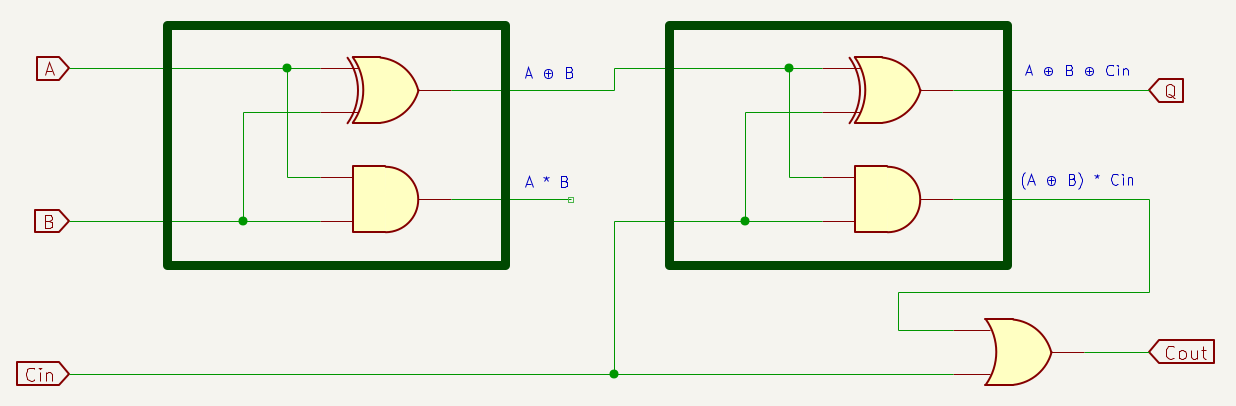
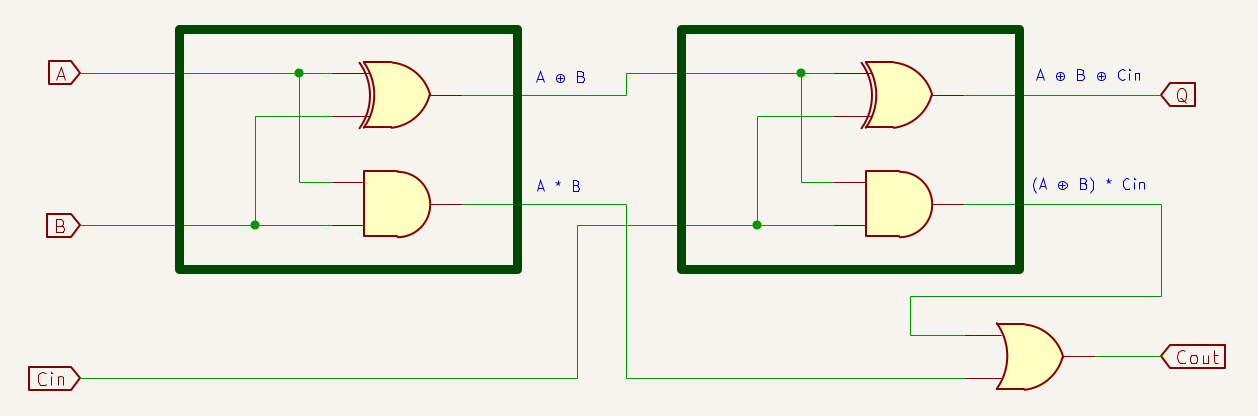
update

diff --git a/docs/_docs/97-bin-math.md b/docs/_docs/97-bin-math.md
@@ -572,7 +572,7 @@ Per finire, da quanto visto fino ad ora possiamo dedurre un'altra regola: la som
 
 Come si effettuano le addizioni? E le sottrazioni?
 
-L'Adder è quell'unità logica basilare che permette di eseguire somme e, opportunamente configurato, sottrazioni.
+Un Adder è un unità logica basilare che permette di eseguire somme e, opportunamente configurato, sottrazioni.
 
 ## Le somme con gli Adder
 
@@ -584,10 +584,10 @@ C                               1
 A           0+     0+     1+     1+
 B           0=     1=     0=     1=
           ----   ----   ----   ----
-Q           0      1      1      0 
+Q           0      1      1     10 
 ~~~
 
-Nella quarta ipotesi notiamo che il risultato della somma di due bit entrambi a 1 genera un riporto, cioè un Carry. Scrivendo la truth table, nella quale C<sub>OUT</sub> identifica il Carry generato dalla somma dei bit A e B, otteniamo:
+Nella quarta ipotesi notiamo che il risultato della somma di due bit entrambi a 1 genera un riporto, cioè un Carry. Scrivendo la truth table e considerando il Carry generato dalla somma dei bit A e B, otteniamo:
 
 | A | B | **Q** | C<sub>OUT</sub> |
 | - | - | -     | -               |
@@ -598,9 +598,11 @@ Nella quarta ipotesi notiamo che il risultato della somma di due bit entrambi a 
 
 Il risultato Q della somma dei due bit A e B si può ottenere con una porta logica XOR, mentre il Carry C<sub>OUT</sub> è chiaramente ottenibile con una porta AND. Ecco come si potrebbe costruire il circuito equivalente:
 
-![Adder](../../assets/math/half-adder.png){:width="50%"}
+![Half Adder](../../assets/math/half-adder.png){:width="50%"}
 
-Quando attivo, il Carry evidenzia una situazione di overflow, cioè di risultato dell'operazione che eccede la capacità di rappresentazione dei bit disponibili.
+*Half Adder.*
+
+Il circuito appena creato viene definito Half Adder. Quando attivo, il Carry evidenzia una situazione di overflow, cioè di risultato dell'operazione che eccede la capacità di rappresentazione dei bit disponibili.
 
 Ipotizziamo ora di voler effettuare una somma a più bit, ad esempio di due nibble (4 bit) o di due byte:
 
@@ -679,6 +681,9 @@ C<sub>OUT</sub> = C<sub>IN</sub>\*(A⊕B) + A\*B
 Come si può vedere dalla truth table, l'output della colonna **C<sub>IN</sub>\*(A+B) + A\*B** è uguale a quello della colonna **C<sub>IN</sub>\*(A⊕B) + A\*B**, pertanto, possiamo utilizzare l'Adder con porta XOR per completare il nostro Adder.
 
 A questo punto, possiamo realizzare la funzione necessaria aggiungendo una semplice OR per effettuare la somma logica tra **C<sub>IN</sub>\*(A⊕B)** e tra **A\*B**.
+
+
+![Alt text](image.png)
 
 ![Adder](../../assets/math/full-adder-2.png){:width="100%"}
 
